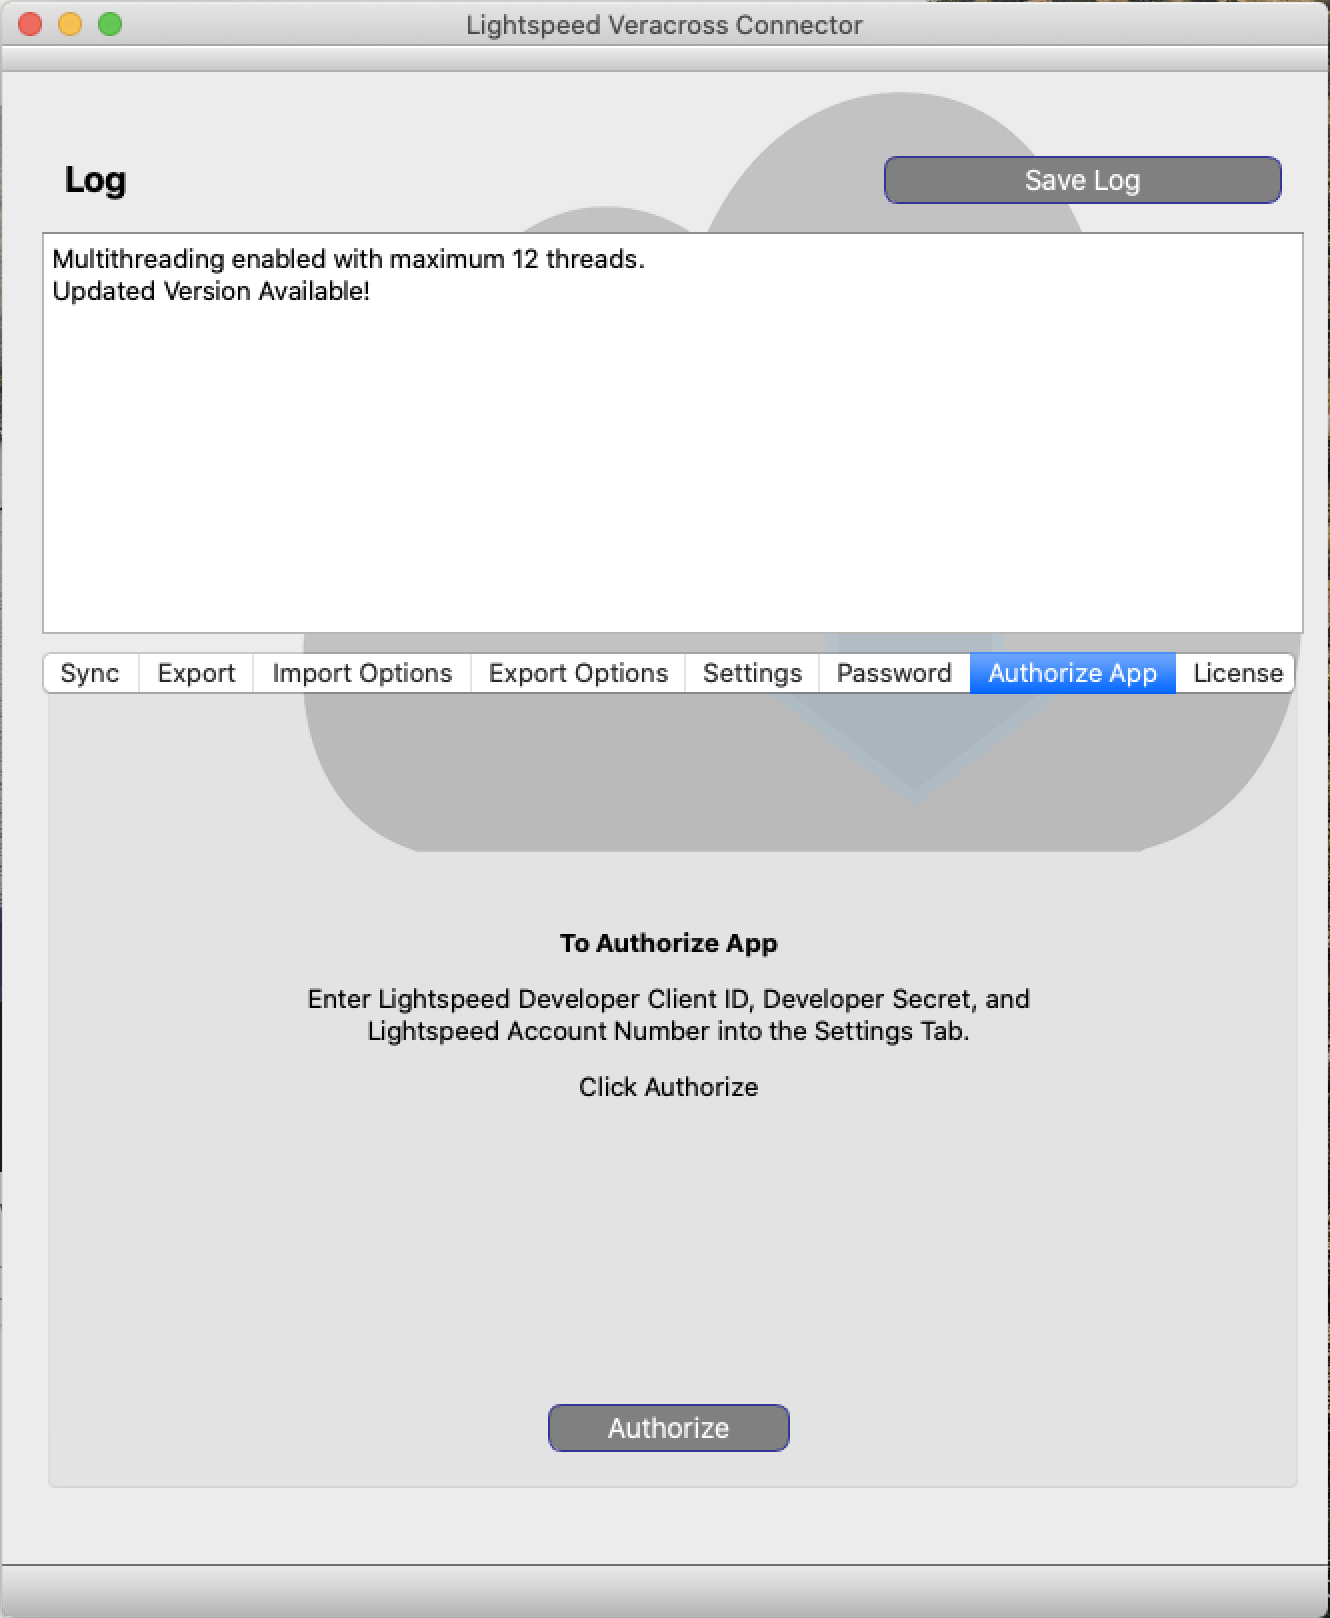
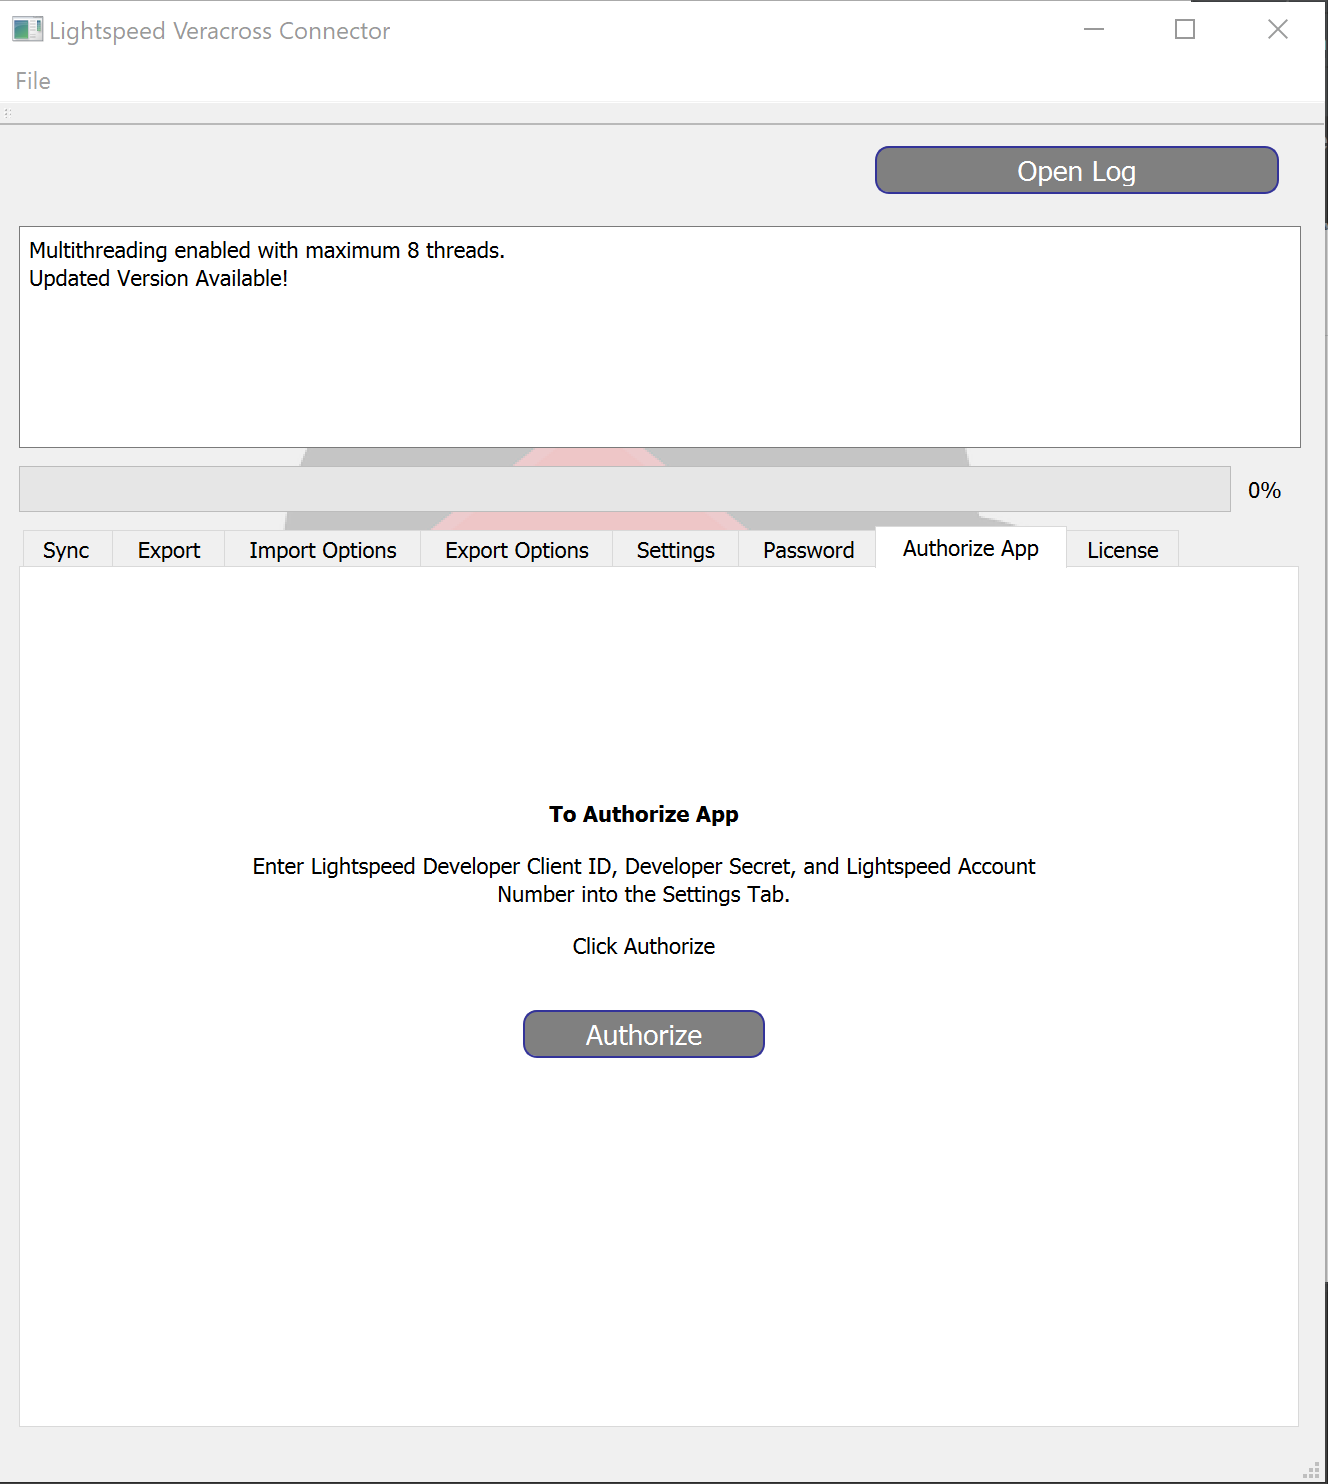
stopped updating text in log window. causes crashes when edited to frequently. moved to logging in %temp%. Added progress bar. added force option for sync.

diff --git a/mainwindow.py b/mainwindow.py
@@ -1,10 +1,11 @@
 # -*- coding: utf-8 -*-
 
-# Form implementation generated from reading ui file 'qt-lightspeed-pos-vc-connector/mainwindow.ui'
+# Form implementation generated from reading ui file 'qt-lightspeed-pos-vc-connector\mainwindow.ui'
 #
-# Created by: PyQt5 UI code generator 5.14.1
+# Created by: PyQt5 UI code generator 5.15.4
 #
-# WARNING! All changes made in this file will be lost!
+# WARNING: Any manual changes made to this file will be lost when pyuic5 is
+# run again.  Do not edit this file unless you know what you are doing.
 
 
 from PyQt5 import QtCore, QtGui, QtWidgets
@@ -16,6 +17,7 @@ class Ui_MainWindow(object):
         MainWindow.resize(663, 712)
         font = QtGui.QFont()
         font.setFamily("Roboto")
+        font.setPointSize(-1)
         MainWindow.setFont(font)
         MainWindow.setAutoFillBackground(False)
         MainWindow.setStyleSheet("QMainWindow{\n"
@@ -71,18 +73,12 @@ class Ui_MainWindow(object):
         self.tab_Sync = QtWidgets.QWidget()
         self.tab_Sync.setObjectName("tab_Sync")
         self.gridLayoutWidget_3 = QtWidgets.QWidget(self.tab_Sync)
-        self.gridLayoutWidget_3.setGeometry(QtCore.QRect(10, 70, 611, 71))
+        self.gridLayoutWidget_3.setGeometry(QtCore.QRect(10, 70, 611, 91))
         self.gridLayoutWidget_3.setObjectName("gridLayoutWidget_3")
         self.gridLayout_3 = QtWidgets.QGridLayout(self.gridLayoutWidget_3)
         self.gridLayout_3.setContentsMargins(11, 11, 11, 11)
         self.gridLayout_3.setSpacing(6)
         self.gridLayout_3.setObjectName("gridLayout_3")
-        self.label_3 = QtWidgets.QLabel(self.gridLayoutWidget_3)
-        self.label_3.setObjectName("label_3")
-        self.gridLayout_3.addWidget(self.label_3, 0, 0, 1, 1)
-        self.label_27 = QtWidgets.QLabel(self.gridLayoutWidget_3)
-        self.label_27.setObjectName("label_27")
-        self.gridLayout_3.addWidget(self.label_27, 1, 0, 1, 1)
         self.combo_SyncVCUserType = QtWidgets.QComboBox(self.gridLayoutWidget_3)
         self.combo_SyncVCUserType.setObjectName("combo_SyncVCUserType")
         self.combo_SyncVCUserType.addItem("")
@@ -92,6 +88,18 @@ class Ui_MainWindow(object):
         self.checkBox_SyncSimulateDelete = QtWidgets.QCheckBox(self.gridLayoutWidget_3)
         self.checkBox_SyncSimulateDelete.setObjectName("checkBox_SyncSimulateDelete")
         self.gridLayout_3.addWidget(self.checkBox_SyncSimulateDelete, 1, 1, 1, 1)
+        self.label_3 = QtWidgets.QLabel(self.gridLayoutWidget_3)
+        self.label_3.setObjectName("label_3")
+        self.gridLayout_3.addWidget(self.label_3, 0, 0, 1, 1)
+        self.label_27 = QtWidgets.QLabel(self.gridLayoutWidget_3)
+        self.label_27.setObjectName("label_27")
+        self.gridLayout_3.addWidget(self.label_27, 1, 0, 1, 1)
+        self.label_16 = QtWidgets.QLabel(self.gridLayoutWidget_3)
+        self.label_16.setObjectName("label_16")
+        self.gridLayout_3.addWidget(self.label_16, 2, 0, 1, 1)
+        self.checkBox_ForceSync = QtWidgets.QCheckBox(self.gridLayoutWidget_3)
+        self.checkBox_ForceSync.setObjectName("checkBox_ForceSync")
+        self.gridLayout_3.addWidget(self.checkBox_ForceSync, 2, 1, 1, 1)
         self.gridLayoutWidget_2 = QtWidgets.QWidget(self.tab_Sync)
         self.gridLayoutWidget_2.setGeometry(QtCore.QRect(10, 380, 611, 41))
         self.gridLayoutWidget_2.setObjectName("gridLayoutWidget_2")
@@ -106,7 +114,7 @@ class Ui_MainWindow(object):
         self.btn_DeleteVCUsers.setObjectName("btn_DeleteVCUsers")
         self.gridLayout_2.addWidget(self.btn_DeleteVCUsers, 0, 1, 1, 1)
         self.frame = QtWidgets.QFrame(self.tab_Sync)
-        self.frame.setGeometry(QtCore.QRect(10, 150, 611, 161))
+        self.frame.setGeometry(QtCore.QRect(10, 190, 611, 161))
         self.frame.setFrameShape(QtWidgets.QFrame.StyledPanel)
         self.frame.setFrameShadow(QtWidgets.QFrame.Raised)
         self.frame.setObjectName("frame")
@@ -478,7 +486,7 @@ class Ui_MainWindow(object):
         self.label_VersionInfo.setObjectName("label_VersionInfo")
         self.tabs.addTab(self.tab_License, "")
         self.txtb_SyncLog = QtWidgets.QTextEdit(self.centralWidget)
-        self.txtb_SyncLog.setGeometry(QtCore.QRect(10, 50, 641, 141))
+        self.txtb_SyncLog.setGeometry(QtCore.QRect(10, 50, 641, 111))
         self.txtb_SyncLog.setObjectName("txtb_SyncLog")
         self.lbl_Icon = QtWidgets.QLabel(self.centralWidget)
         self.lbl_Icon.setGeometry(QtCore.QRect(79, 10, 571, 461))
@@ -498,13 +506,18 @@ class Ui_MainWindow(object):
         self.label_28.setText("")
         self.label_28.setObjectName("label_28")
         self.horizontalLayout_2.addWidget(self.label_28)
-        self.btn_SaveLog = QtWidgets.QPushButton(self.horizontalLayoutWidget_2)
-        self.btn_SaveLog.setObjectName("btn_SaveLog")
-        self.horizontalLayout_2.addWidget(self.btn_SaveLog)
+        self.btn_OpenLog = QtWidgets.QPushButton(self.horizontalLayoutWidget_2)
+        self.btn_OpenLog.setObjectName("btn_OpenLog")
+        self.horizontalLayout_2.addWidget(self.btn_OpenLog)
+        self.progressBar = QtWidgets.QProgressBar(self.centralWidget)
+        self.progressBar.setGeometry(QtCore.QRect(10, 170, 641, 23))
+        self.progressBar.setProperty("value", 24)
+        self.progressBar.setObjectName("progressBar")
         self.lbl_Icon.raise_()
         self.tabs.raise_()
         self.txtb_SyncLog.raise_()
         self.horizontalLayoutWidget_2.raise_()
+        self.progressBar.raise_()
         MainWindow.setCentralWidget(self.centralWidget)
         self.mainToolBar = QtWidgets.QToolBar(MainWindow)
         self.mainToolBar.setObjectName("mainToolBar")
@@ -513,7 +526,7 @@ class Ui_MainWindow(object):
         self.statusBar.setObjectName("statusBar")
         MainWindow.setStatusBar(self.statusBar)
         self.menuBar = QtWidgets.QMenuBar(MainWindow)
-        self.menuBar.setGeometry(QtCore.QRect(0, 0, 663, 22))
+        self.menuBar.setGeometry(QtCore.QRect(0, 0, 663, 21))
         self.menuBar.setObjectName("menuBar")
         self.menuFile = QtWidgets.QMenu(self.menuBar)
         self.menuFile.setObjectName("menuFile")
@@ -524,18 +537,20 @@ class Ui_MainWindow(object):
         self.menuBar.addAction(self.menuFile.menuAction())
 
         self.retranslateUi(MainWindow)
-        self.tabs.setCurrentIndex(3)
+        self.tabs.setCurrentIndex(0)
         QtCore.QMetaObject.connectSlotsByName(MainWindow)
 
     def retranslateUi(self, MainWindow):
         _translate = QtCore.QCoreApplication.translate
         MainWindow.setWindowTitle(_translate("MainWindow", "Lightspeed Veracross Connector"))
-        self.label_3.setText(_translate("MainWindow", "VC User Type"))
-        self.label_27.setText(_translate("MainWindow", "Only Simulate Deleting Inactive Users"))
         self.combo_SyncVCUserType.setItemText(0, _translate("MainWindow", "Select Type"))
         self.combo_SyncVCUserType.setItemText(1, _translate("MainWindow", "Faculty Staff"))
         self.combo_SyncVCUserType.setItemText(2, _translate("MainWindow", "Students"))
         self.checkBox_SyncSimulateDelete.setText(_translate("MainWindow", "Enable"))
+        self.label_3.setText(_translate("MainWindow", "VC User Type"))
+        self.label_27.setText(_translate("MainWindow", "Only Simulate Deleting Inactive Users"))
+        self.label_16.setText(_translate("MainWindow", "Force Sync"))
+        self.checkBox_ForceSync.setText(_translate("MainWindow", "Enable"))
         self.btn_SyncAllUsers.setToolTip(_translate("MainWindow", "Syncs all VC users with Lightspeed"))
         self.btn_SyncAllUsers.setStatusTip(_translate("MainWindow", "Syncs all VC users with Lightspeed"))
         self.btn_SyncAllUsers.setText(_translate("MainWindow", "Sync Users"))
@@ -618,6 +633,6 @@ class Ui_MainWindow(object):
         self.tabs.setTabText(self.tabs.indexOf(self.tab_License), _translate("MainWindow", "License"))
         self.lbl_Icon.setText(_translate("MainWindow", "icon"))
         self.lbl_SyncLog.setText(_translate("MainWindow", "<html><head/><body><p><br/></p></body></html>"))
-        self.btn_SaveLog.setText(_translate("MainWindow", "Save Log"))
+        self.btn_OpenLog.setText(_translate("MainWindow", "Open Log"))
         self.menuFile.setTitle(_translate("MainWindow", "File"))
         self.actionQuit.setText(_translate("MainWindow", "Quit"))

diff --git a/main.py b/main.py
@@ -26,7 +26,7 @@ if hasattr(Qt, 'AA_UseHighDpiPixmaps'):
     QApplication.setAttribute(Qt.AA_UseHighDpiPixmaps, True)
 
 # Setup Logfile
-logfile = os.environ['USERPROFILE'] + "\\LSVCConnectorLog.txt"
+logfile = os.environ['TEMP'] + "\\LSVCConnectorLog-" + str(datetime.date.today()) +".txt"
 logging.basicConfig(filename=logfile)
 logging.basicConfig(level=logging.DEBUG)
 
@@ -151,7 +151,7 @@ class Main(QMainWindow):
         self.ui.btn_GetPaymentTypes.clicked.connect(self.get_payment_types)
         self.ui.btn_Authorize.clicked.connect(self.authorize_app)
         self.ui.btn_ChangeEncPassword.clicked.connect(self.change_password)
-        self.ui.btn_SaveLog.clicked.connect(self.save_log_to_file)
+        self.ui.btn_OpenLog.clicked.connect(self.open_log_to_file)
 
         # Settings Buttons
         self.ui.btn_SaveSettings.clicked.connect(self.save_settings_button)
@@ -181,6 +181,9 @@ class Main(QMainWindow):
         # Keyboard Shortcuts
         self.key_reveal_hidden_settings = QShortcut(QKeySequence("Ctrl+Shift+R"), self)
         self.key_reveal_hidden_settings.activated.connect(self.reveal_hidden)
+
+        # Progress bar zero at start
+        self.ui.progressBar.setValue(0)
 
         if "vcuser" in self.c.keys():
             self.ui.txt_VCUser.setText(self.c["vcuser"])
@@ -330,8 +333,19 @@ class Main(QMainWindow):
             self.debug_append_log("Select Veracross User Type first.", "window,info")
             return None
 
+        # Going to use progress bar.  Make sure it is at zero first.
+        self.ui.progressBar.setValue(0)
+
+        # Determine each increment for progress bar.
+        increment = 100 / len(vcdata)
+        total_increment = 0
+
         # Loop through the data from VC.
         for i in vcdata:
+
+            # increment the progress bar.
+            total_increment = total_increment + increment
+            self.ui.progressBar.setValue(int(total_increment))
 
             self.debug_append_log("Processing VC Record {}".format(i["person_pk"]), "debug")
 
@@ -456,7 +470,7 @@ class Main(QMainWindow):
                     ls_customer["state"] = ''
 
                 # Compare the data. Are the two dictionaries the same...
-                if not ls_customer == vc_person:
+                if not ls_customer == vc_person or self.ui.checkBox_ForceSync.isChecked():
                     self.debug_append_log("Updating customer {} {}.".format(vc_formatted['Customer']['firstName'],
                                                                                 vc_formatted['Customer']['lastName']),
                                           "info")
@@ -1096,16 +1110,13 @@ class Main(QMainWindow):
         self.export_dir = QFileDialog.getExistingDirectory(self, 'Select Directory for Export')
         self.ui.line_ExportFolder.setText(self.export_dir)
 
-    def save_log_to_file(self):
-        log_dir = QFileDialog.getExistingDirectory(self, 'Select Directory to Save Log')
-        filename = log_dir + str("/LSVCConnector.log")
+    def open_log_to_file(self):
+        filename = os.environ['TEMP'] + "\\LSVCConnectorLog-" + str(datetime.date.today()) +".txt"
         try:
-            if os.path.isdir(log_dir):
-                filepath = open(filename, 'w')
-                with filepath:
-                    filepath.write(self.ui.txtb_SyncLog.toPlainText())
+            if os.path.isfile(filename):
+                os.startfile(filename)
         except:
-            self.debug_append_log("Unable to save log file.", "window,info")
+            self.debug_append_log("Unable to open log file.", "window,info")
 
     def save_settings_button(self):
         """
